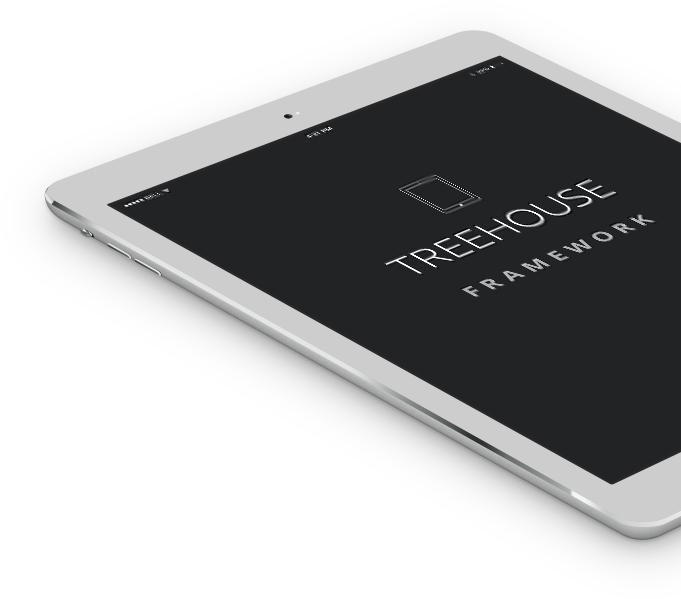
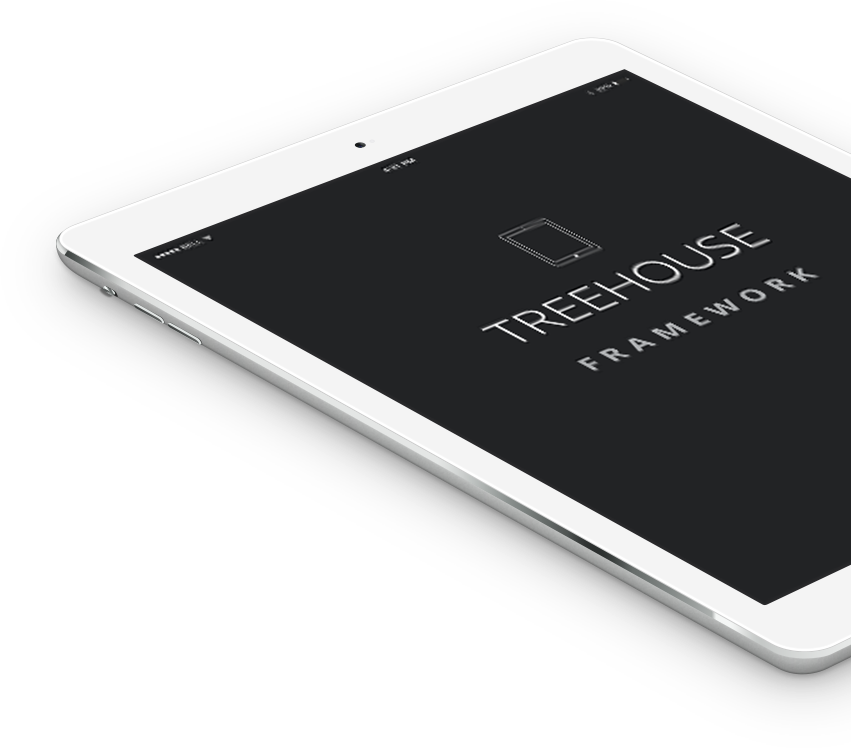
Add files via upload

diff --git a/index.html b/index.html
@@ -175,12 +175,12 @@
         </div>
     </div>
     <div class="block2">
-        <img src="media/Project-bg.png" alt="">
+        <img src="media/Project-ipad.png" alt="">
     </div>
         
     </main>
 </section>
 
-<script src="scripts.js"></script>
+
 </body>
 </html>

diff --git a/style.css b/style.css
@@ -234,6 +234,10 @@ display: flex;
     float: right;
     padding: 2% 0 0 0;
 }
+.block2 > img{
+width: 100%;
+height: 100%;
+}
 
 .Project-header{
     text-align: center;
